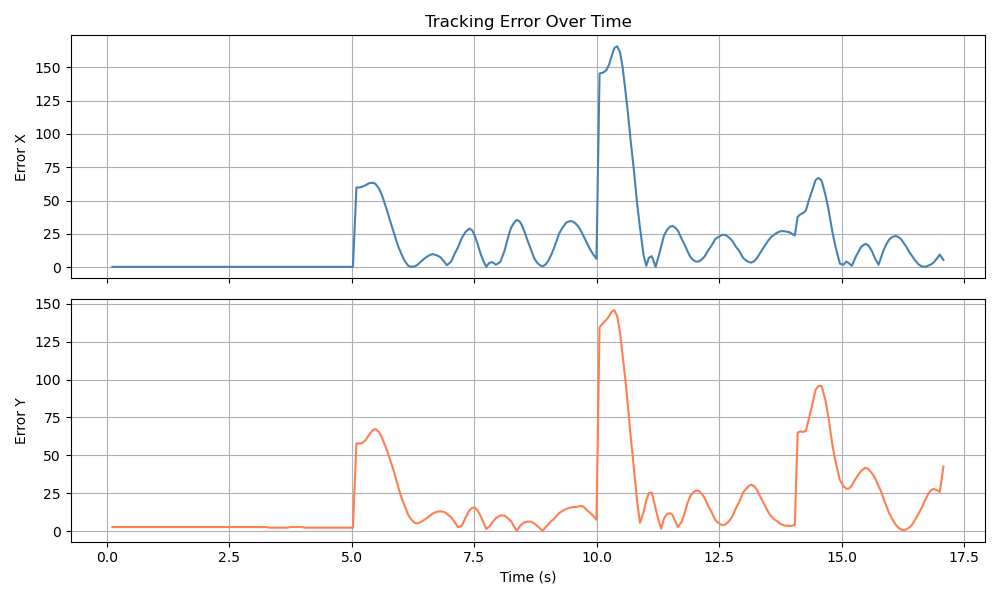
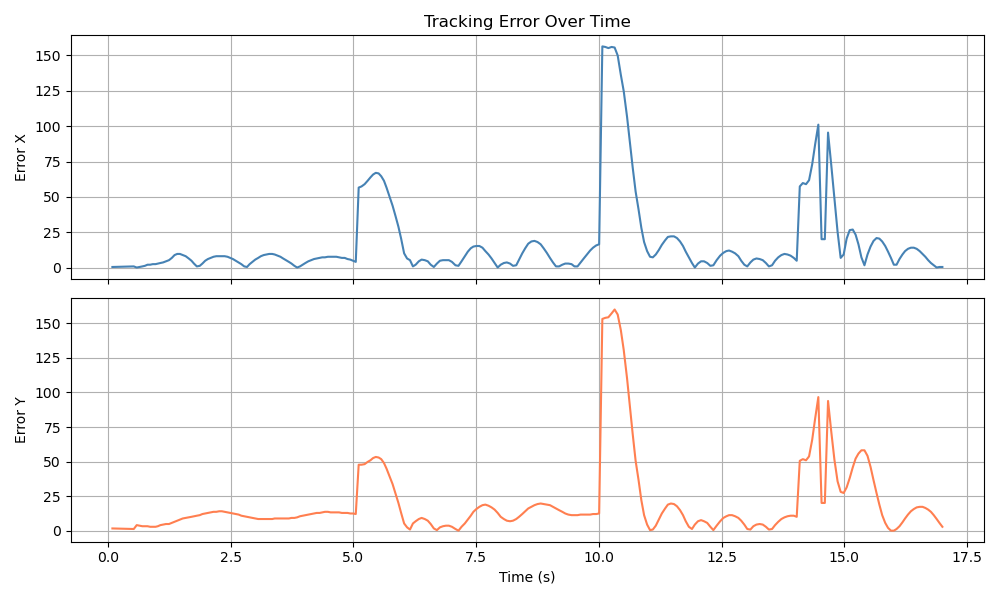
wrapping up

diff --git a/main.py b/main.py
@@ -28,7 +28,7 @@ timeinit = time.time()
 # SETUP
 def update_motion_DX():
 	pos = camera.getCoords()
-	des = motion.circle(time.time()-timeinit)
+	des = motion.test(time.time()-timeinit)
 	desX = des[0]
 	desY = des[1]
 	posX = pos[0]
@@ -52,7 +52,7 @@ def runSystem():
 		tstart = time.time()
 		# get current position, desired position, and error history
 		pos, des, histX, histY = update_motion_DX()
-		print("HistDX Length: ", len(histDX))
+		
 
 		#Track error history for performance evaluation
 		all_errors_x.append(abs(histDX[0]))
@@ -70,9 +70,10 @@ def runSystem():
 		
 		
 		#Set servo angles based on control algorithm output
+		print("HistDX Length: ", len(histDX))
 		servo.setx(controlla.PID(histDX))
 		servo.sety(controlla.PID(histDY))
-
+		
 		camera.dispframe(des[0],des[1])
 		Dt = time.time()-tstart # actual time per cycle
 		print("pos:",str(pos[0]),",",str(pos[1]),"  delta:",str(histX[0]),",",str(histY[0]),"  dt:",round(Dt,3)," rtime",round(time.time()-timeinit,2))
@@ -81,11 +82,12 @@ def runSystem():
 			break
 		if (dt > Dt):
 			time.sleep(dt - Dt)
+	score, metrics = motion.calculate_performance(all_errors_x, all_errors_y, dt)
+	print(f"Performance Score: {score:.2f}")
+	print(f"Metrics: {metrics}")
+	controlla.plot_errors(timestamps, all_errors_x, all_errors_y)
 
-#score, metrics = motion.calculate_performance(all_errors_x, all_errors_y, dt)
-#print(f"Performance Score: {score:.2f}")
-#print(f"Metrics: {metrics}")
-#controlla.plot_errors(timestamps, all_errors_x, all_errors_y)
+
 runSystem()
 camera.turnoff()
 servo.turnoff()
